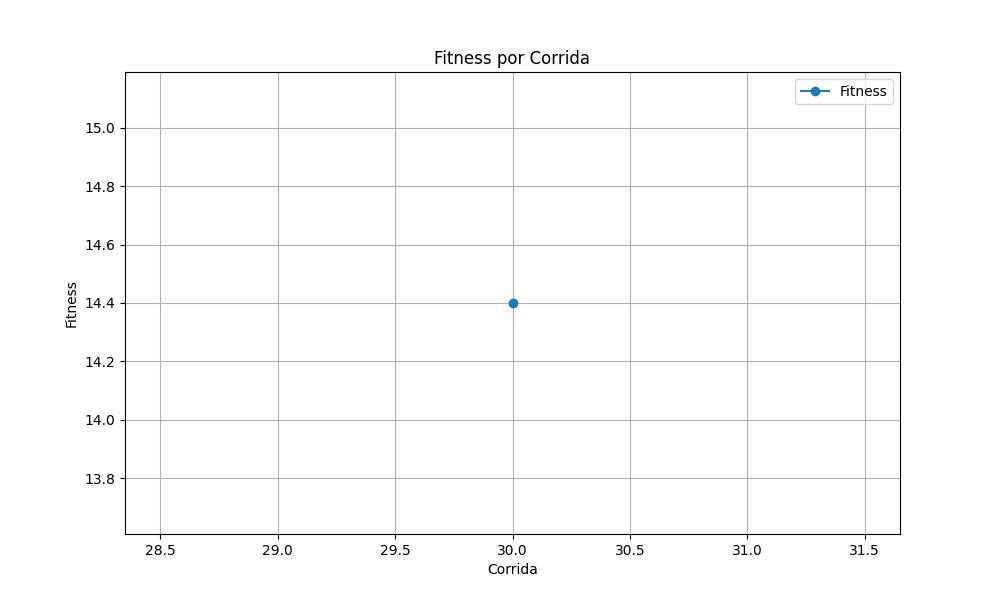
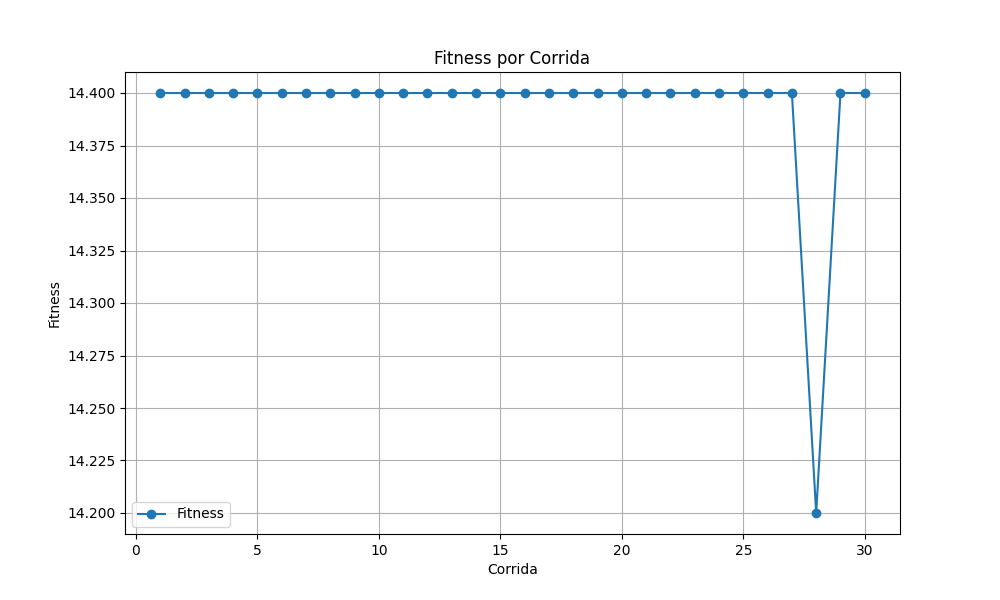
Primeras graficas

diff --git a/parallel_BFOA.py b/parallel_BFOA.py
@@ -91,8 +91,13 @@ if __name__ == "__main__":
     
     print("poblacion inicial ...")
 
+    # Inicializar el archivo con encabezados
+    with open("resultados.csv", "w") as f:
+        f.write("corrida,fitness,tiempo_ejecucion,interaccion,calificacion_blosum\n")
+
     resultados = []
     for corrida in range(30):
+        print(f"Corrida numero: {corrida + 1}")
         start_time = time.time()
         operadorBacterial = bacteria(numeroDeBacterias)
         veryBest = [None, None, None]  # índice, fitness, secuencias
@@ -127,22 +132,27 @@ if __name__ == "__main__":
             operadorBacterial.replaceWorst(poblacion, veryBest[0])
             operadorBacterial.resetListas(numeroDeBacterias)
     
-    execution_time = time.time() - start_time
-    resultados.append({
-        "corrida": corrida + 1,
-        "fitness": veryBest[1],
-        "tiempo_ejecucion": execution_time,
-        "interaccion": operadorBacterial.tablaInteraction[veryBest[0]],
-        "calificacion_blosum": operadorBacterial.blosumScore[veryBest[0]]
-    })
-    df_resultados = pd.DataFrame(resultados)
-    df_resultados.to_csv("resultados.csv", index=False)
+        execution_time = time.time() - start_time
+        
+        # Crear un DataFrame solo con el resultado de esta corrida
+        df_current = pd.DataFrame({
+            "corrida": [corrida + 1],
+            "fitness": [veryBest[1]],
+            "tiempo_ejecucion": [execution_time],
+            "interaccion": [operadorBacterial.tablaInteraction[veryBest[0]]],
+            "calificacion_blosum": [operadorBacterial.blosumScore[veryBest[0]]]
+        })
+        
+        # Agregar al archivo CSV sin encabezados
+        df_current.to_csv("resultados.csv", mode="a", header=False, index=False)
+        
+        print(f"Corrida {corrida + 1} completada y guardada")
 
     print("Very Best: ", veryBest)
     #imprime el tiempo de ejecucion
     print("--- %s seconds ---" % (time.time() - start_time))
 
-    # Leer los resultados
+    # Leer los resultados completos
     df = pd.read_csv("resultados.csv")
 
     # Mostrar tabla resumen
@@ -168,4 +178,25 @@ if __name__ == "__main__":
     plt.legend()
     plt.grid()
     plt.savefig("tiempo_por_corrida.png")
+    plt.show()
+
+    plt.figure(figsize=(10, 6))
+    plt.plot(df["corrida"], df["interaccion"], marker="o", label="Interacción")
+    plt.xlabel("Corrida")
+    plt.ylabel("Interacción")
+    plt.title("Interacción por Corrida")
+    plt.legend()
+    plt.grid()
+    plt.savefig("interaccion_por_corrida.png")
+    plt.show()
+
+    # Graficar calificación BLOSUM vs corrida
+    plt.figure(figsize=(10, 6))
+    plt.plot(df["corrida"], df["calificacion_blosum"], marker="o", label="Calificación BLOSUM")
+    plt.xlabel("Corrida")
+    plt.ylabel("Calificación BLOSUM")
+    plt.title("Calificación BLOSUM por Corrida")
+    plt.legend()
+    plt.grid()
+    plt.savefig("calificacion_blosum_por_corrida.png")
     plt.show()
